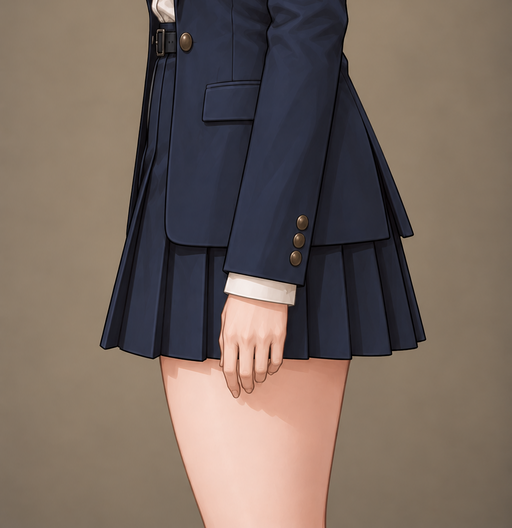
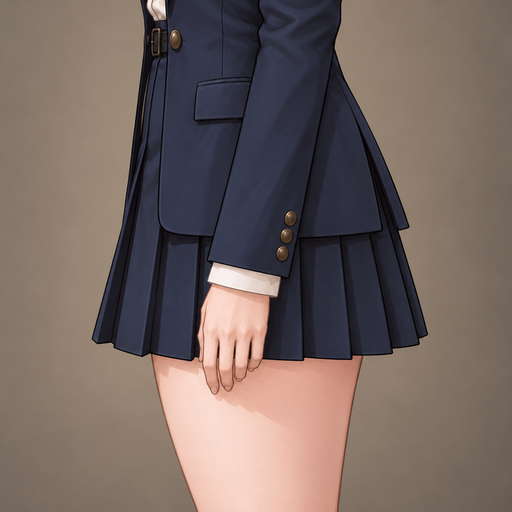
修订下装近景与腰臀方向结构 162

Changed region(s): [[0.1562, 0.0, 0.8438, 1.0], [0.6562, 0.4688, 0.6875, 0.5]]

diff --git a/wardrobe-samples-illustrated/正式素材/下装/README.md b/wardrobe-samples-illustrated/正式素材/下装/README.md
@@ -7,7 +7,7 @@
 | 素材 | 图片 | 交付尺寸 | 视觉验收 |
 | --- | --- | --- | --- |
 | 藏青百褶短裙 · 正面 | [查看图片](藏青百褶短裙/正面.png) | 512x768 | 已自检：款式、对应视角、人物比例与灰调厚涂近景。 |
-| 藏青百褶短裙 · 侧面 | [查看图片](藏青百褶短裙/侧面.png) | 512x528 | 已自检：款式、对应视角、人物比例与灰调厚涂近景。 |
+| 藏青百褶短裙 · 侧面 | [查看图片](藏青百褶短裙/侧面.png) | 512x512 | 下装修订：已上传，待视觉复核。 |
 | 藏青百褶短裙 · 背面 | [查看图片](藏青百褶短裙/背面.png) | 512x528 | 已自检：款式、对应视角、人物比例与灰调厚涂近景。 |
 | 格纹百褶短裙 · 正面 | [查看图片](格纹百褶短裙/正面.png) | 512x768 | 已自检：款式、对应视角、人物比例与灰调厚涂近景。 |
 | 格纹百褶短裙 · 侧面 | [查看图片](格纹百褶短裙/侧面.png) | 512x768 | 已自检：款式、对应视角、人物比例与灰调厚涂近景。 |

diff --git a/wardrobe-samples-illustrated/正式素材/下装/藏青百褶短裙/README.md b/wardrobe-samples-illustrated/正式素材/下装/藏青百褶短裙/README.md
@@ -7,7 +7,7 @@
 | 版本／规格 | 视角 | 图片 | 尺寸 | 自检 |
 | --- | --- | --- | --- | --- |
 | 共用 | 正面 | [查看](正面.png) | 512x768 | 已自检：款式、对应视角、人物比例与灰调厚涂近景。 |
-| 共用 | 侧面 | [查看](侧面.png) | 512x528 | 已自检：款式、对应视角、人物比例与灰调厚涂近景。 |
+| 共用 | 侧面 | [查看](侧面.png) | 512x512 | 下装修订：已上传，待视觉复核。 |
 | 共用 | 背面 | [查看](背面.png) | 512x528 | 已自检：款式、对应视角、人物比例与灰调厚涂近景。 |
 
 [统一制作规范](../../../制作规范.md)

diff --git a/wardrobe-samples-illustrated/README.md b/wardrobe-samples-illustrated/README.md
@@ -244,6 +244,7 @@
 
 
 
+
 ## 正式素材进度
 
 已生成独立服装素材 **185 / 185** 张、独立人物锚点 **10 / 10** 张。
